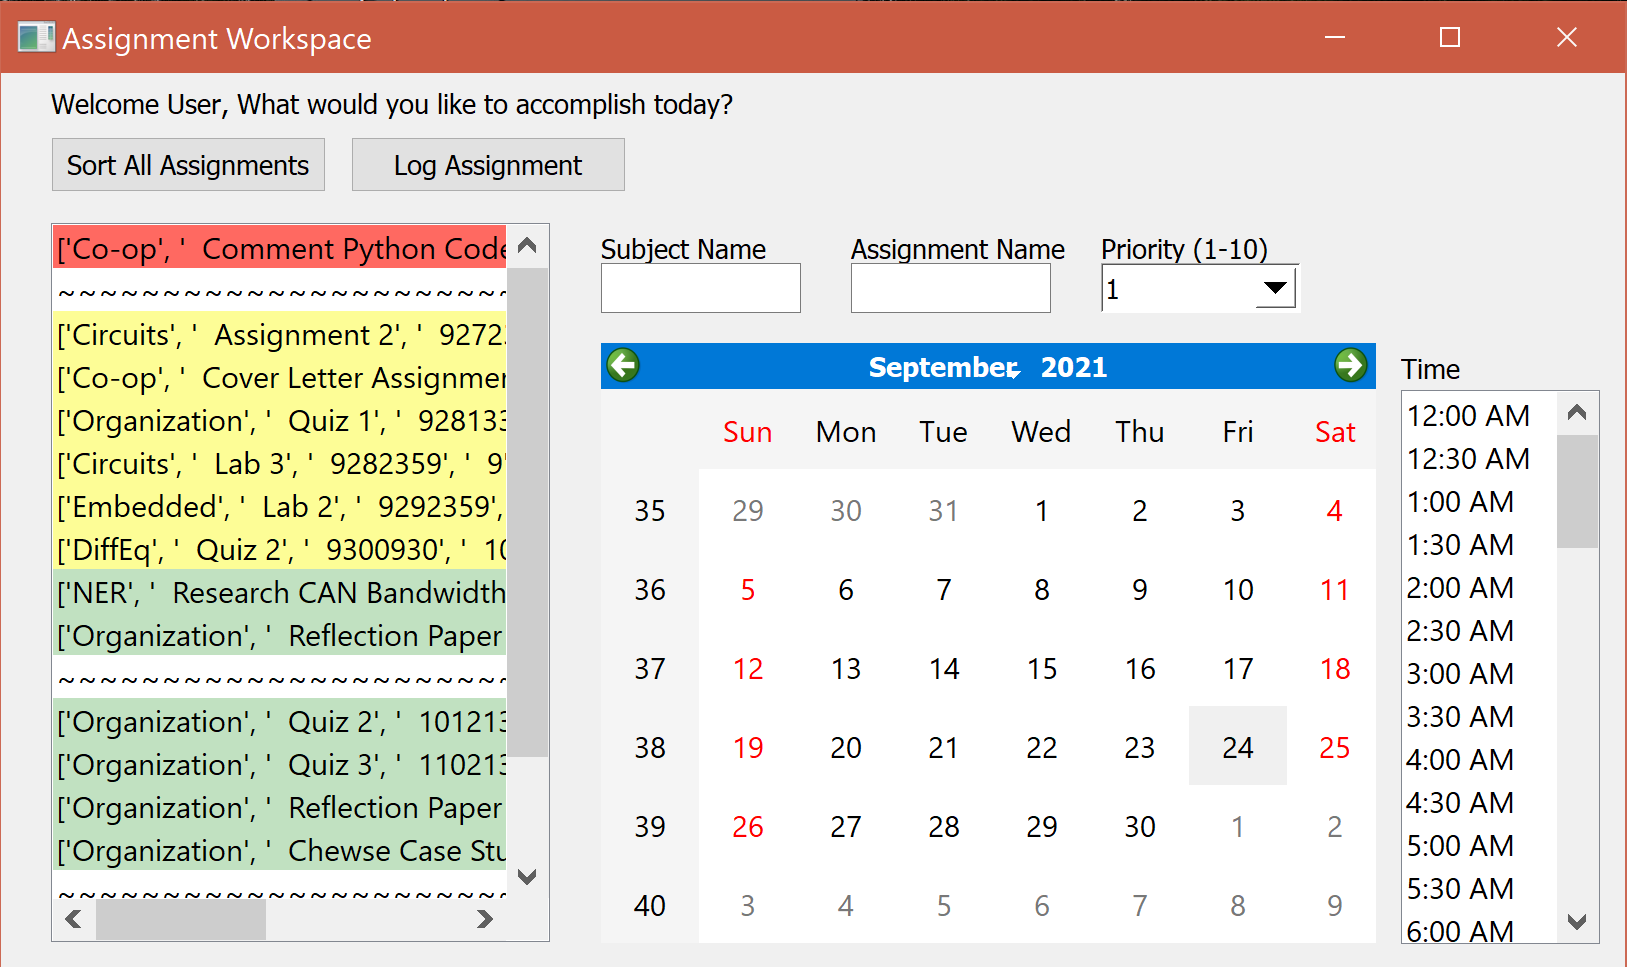
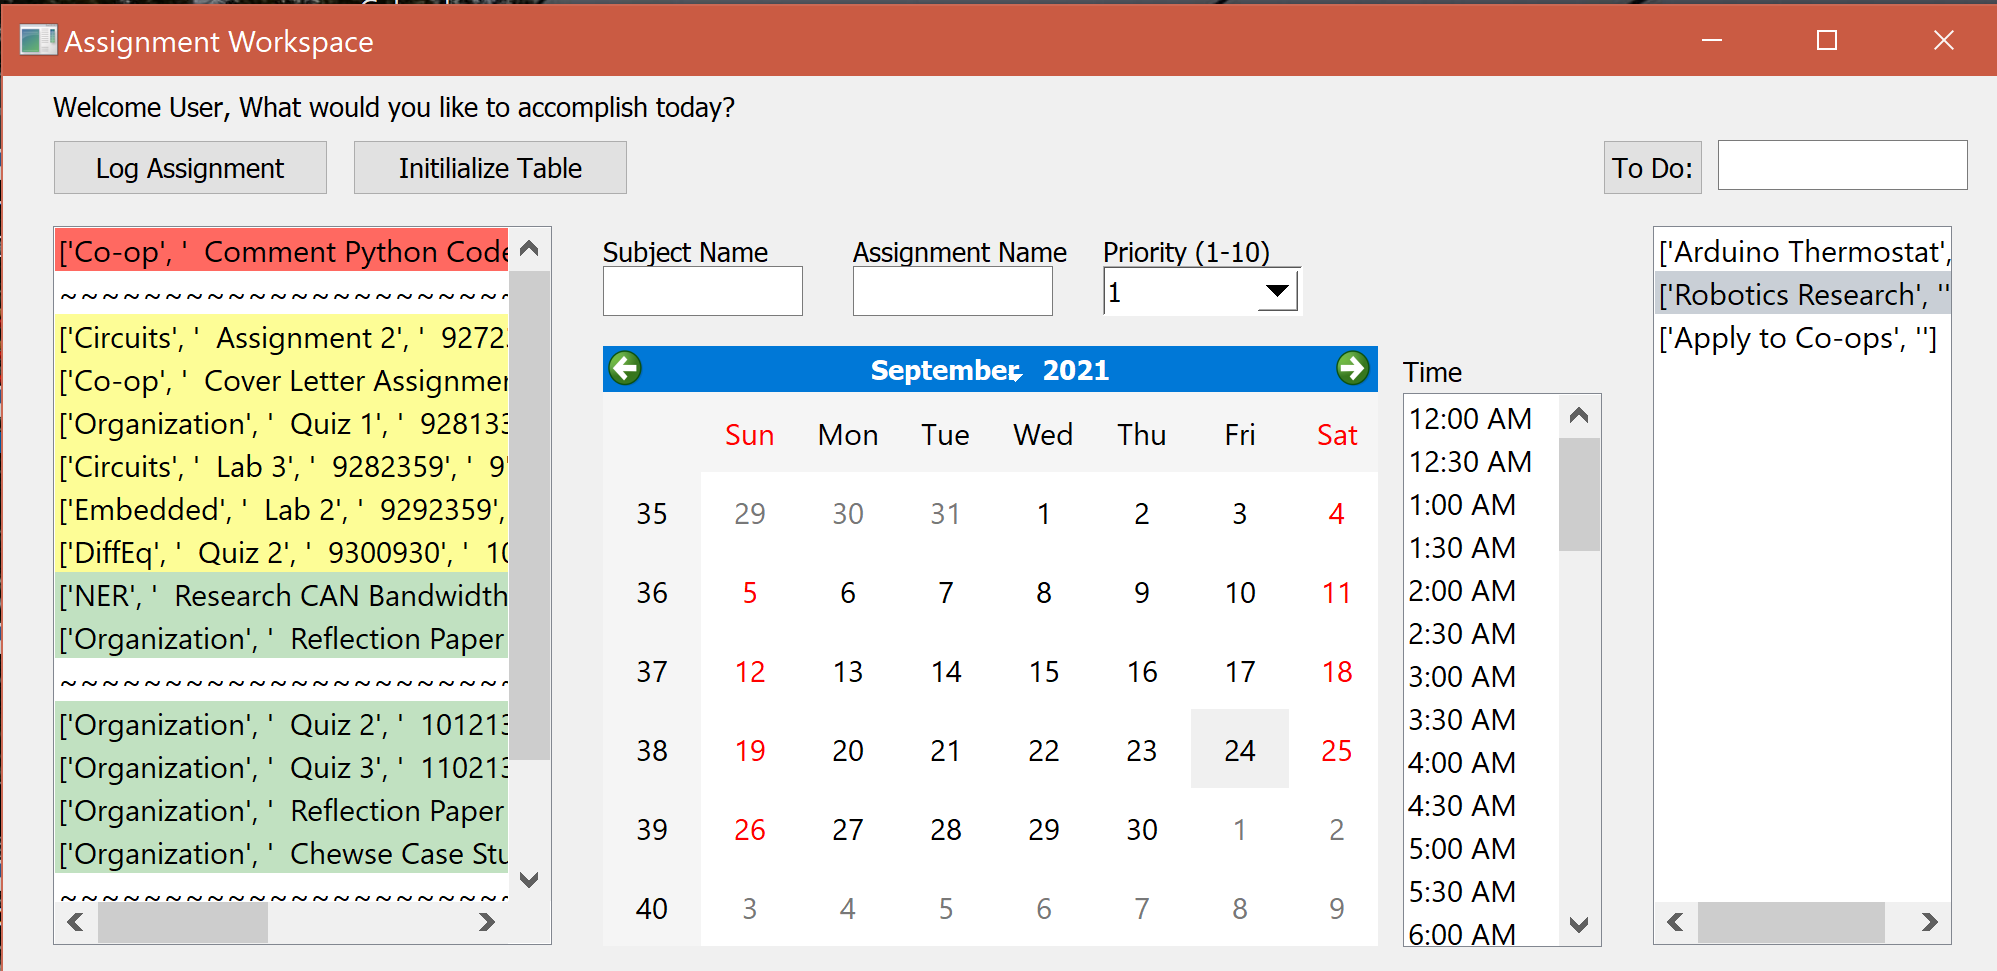
Added TODO functionality

diff --git a/DatabaseAssignmentGUI/homework_app.py b/DatabaseAssignmentGUI/homework_app.py
@@ -42,27 +42,32 @@ class mainWindow(QMainWindow):
     def __init__(self):
         super().__init__()
 
-        self.setGeometry(250,250,1625,900)
+        self.setGeometry(250,250,2000,900)
         self.setWindowTitle("Assignment Workspace")
         self.UiComponents()
         self.show()
 
     def UiComponents(self):
 
-        sortbutton = QPushButton(self)
-        sortbutton.setText("Sort All Assignments")
-        sortbutton.setGeometry(50,64,275,55)
-        sortbutton.clicked.connect(mainWindow.getassignments)
+        #sortbutton = QPushButton(self)
+        #sortbutton.setText("Sort All Assignments")
+        #sortbutton.setGeometry(50,64,275,55)
+        #sortbutton.clicked.connect(mainWindow.getassignments)
 
         logbutton = QPushButton(self)
         logbutton.setText("Log Assignment")
-        logbutton.setGeometry(350,64,275,55)
+        logbutton.setGeometry(50,64,275,55)
         logbutton.clicked.connect(mainWindow.logassignments)
 
         initbutton = QPushButton(self)
         initbutton.setText("Initilialize Table")
-        initbutton.setGeometry(650,64,275,55)
+        initbutton.setGeometry(350,64,275,55)
         initbutton.clicked.connect(mainWindow.init_table)
+
+        todobutton=QPushButton(self)
+        todobutton.setText("To Do:")
+        todobutton.setGeometry(1600,64,100,55)
+        todobutton.clicked.connect(mainWindow.logtodo)
 
         global calendar, due_date_date
         calendar=QCalendarWidget(self)
@@ -114,13 +119,27 @@ class mainWindow(QMainWindow):
         priorityinput.addItems(prioritylist)
         priorityinput.setStyleSheet("QComboBox { background-color: white; }")
         priorityinput.setGeometry(1100, 190, 200, 50)
+
+        global todoinput
+        todoinput=QLineEdit(self)
+        todoinput.setGeometry(1715, 64, 250, 50)
         
-        global listwidget
-        listwidget=QListWidget(self)
-        listwidget.setGeometry(50,150,500,720)
-        listwidget.doubleClicked.connect(mainWindow.removeassignments)
+        global assignmentlistwidget
+        assignmentlistwidget=QListWidget(self)
+        assignmentlistwidget.setGeometry(50,150,500,720)
+        assignmentlistwidget.doubleClicked.connect(mainWindow.removeassignments)
+
+        global todolistwidget
+        todolistwidget=QListWidget(self)
+        todolistwidget.setGeometry(1650, 150, 300, 720)
+        todolistwidget.doubleClicked.connect(mainWindow.removetodo)
 
         mainWindow.getassignments()
+        mainWindow.gettodos()
+        try:
+            quickstart.init()
+        except:
+            print("unable to access Google Calendar")
 
     def logassignments():
         print("logging assignment...")
@@ -131,7 +150,8 @@ class mainWindow(QMainWindow):
         due_date_date=due_date_object.month*1000000+due_date_object.day*10000
         try:
             due_date=int(due_date_date+due_date_time)
-            interface.send.push_assignments(subject, assignmentname, due_date, priority)
+            interface.assignmentdatabase.push_assignments(subject, assignmentname, due_date, priority)
+            quickstart.log_assignment(subject, assignmentname)
         except:
             print("error logging entry: part of due date was not given")
         finally:
@@ -140,13 +160,13 @@ class mainWindow(QMainWindow):
             importlib.reload(interface)
             mainWindow.getassignments()
             print("done logging!")
-    
+
     def getassignments():
         global assignmentlist
         print("processing assignments...")
-        listwidget.clear()
+        assignmentlistwidget.clear()
         importlib.reload(interface)
-        assignmentlist=interface.receive.callassignments()
+        assignmentlist=interface.assignmentdatabase.callassignments()
         process.process.string_to_int(assignmentlist)
         process.process.mergesort_list(assignmentlist)
         process.process.weeks_sorting(assignmentlist)
@@ -172,16 +192,16 @@ class mainWindow(QMainWindow):
                 assignment=QListWidgetItem('%s' % "~~~~~~~~~~~~~~~~~~~~~~~~~~~~~~~~~~~~")
 
             finally:
-                listwidget.addItem(assignment)
+                assignmentlistwidget.addItem(assignment)
             
         
         print("done getting!")
 
     def removeassignments():
         try:
-            assignment,subject=process.process.getsublist(assignmentlist[listwidget.currentRow()],3)
+            assignment,subject=process.process.getsublist(assignmentlist[assignmentlistwidget.currentRow()],3)
             print("deleting assignment...")
-            interface.send.delete_assignments(assignment,subject)
+            interface.assignmentdatabase.delete_assignments(assignment,subject)
             mainWindow.getassignments()
             print("done deleting!")
         except:
@@ -189,8 +209,8 @@ class mainWindow(QMainWindow):
 
     def init_table():
         print("initializing table...")
-        quickstart.main()
-        interface.initialize.initialize()
+        quickstart.init()
+        interface.assignmentdatabase.initialize()
         mainWindow.getassignments()
 
     def selecttime():
@@ -230,6 +250,42 @@ class mainWindow(QMainWindow):
         timelist.append("2359")
         timelist[0]="0000"
         timelist[1]="0030"
+
+    def logtodo():
+        print("logging assignment...")
+        name=todoinput.text()
+        try:
+            interface.tododatabase.push_todo(name)
+        except:
+            print("error logging entry: part of due date was not given")
+        finally:
+            todoinput.clear()
+            importlib.reload(interface)
+            mainWindow.gettodos()
+            print("done logging!")
+
+    def gettodos():
+        global todolist
+        print("processing todos...")
+        todolistwidget.clear()
+        importlib.reload(interface)
+        todolist=interface.tododatabase.calltodos()
+
+        for i in range (len(todolist)):
+            todo=QListWidgetItem('%s' % process.process.getsublist(todolist[i],0))
+            if i%2==1:
+                todo.setBackground(QColor('#C9CFD6'))
+            todolistwidget.addItem(todo)
+
+    def removetodo():
+        try:
+            name=process.process.getsublist(todolist[todolistwidget.currentRow()],0)
+            print("deleting assignment...")
+            interface.tododatabase.delete_todo(name[0])
+            mainWindow.gettodos()
+            print("done deleting!")
+        except:
+            print("unable to delete item!")
 
 ################################################################################################
 

diff --git a/DatabaseAssignmentGUI/database_interface.py b/DatabaseAssignmentGUI/database_interface.py
@@ -16,6 +16,8 @@ from process_assignments import *
 import safeguard as safeguard
 import time
 
+
+#Imports credentials from external safeguard.py
 mydb = mysql.connector.connect(
   host=process.getsublist(safeguard.host,2),
   user=process.getsublist(safeguard.user,2),
@@ -23,22 +25,32 @@ mydb = mysql.connector.connect(
   database=process.getsublist(safeguard.database,2)
 )
 
-class send:
+
+#Functions for interfacing with assignment database
+class assignmentdatabase:
+
+    #uploads new assignment to database with subject, name, due date, and priority
     def push_assignments(subject, name, due_date, priority):
         mycursor = mydb.cursor()
         sql = "INSERT INTO homework (subject, name, due_date, priority) VALUES (%s, %s, %s, %s)"
 
+        #If one of the values is empty, then the assignment is not logged, as it will interfere with manipulation later
         if subject=="" or name=="" or due_date=="" or priority=="":
           print("error logging entry: entry is empty")
           return
 
+        #executes upload
         val = (subject, name, due_date, priority)  
         mycursor.execute(sql, val)
         mydb.commit()
 
+
+    #deletes a specific assignment from the database with a specific name and subject (This prevents two assignments
+    # named the same thing, i.e. "Quiz 2" for two different subjects from being deleted)
     def delete_assignments(assignment,subject):
       mycursor=mydb.cursor()
 
+      #executes deletion
       sql = "DELETE FROM homework WHERE name = %s AND subject = %s"
       val=(assignment[2:],subject)
       print(val)
@@ -47,33 +59,100 @@ class send:
       mydb.commit()
       print(mycursor.rowcount, "record(s) deleted")
       
+    #fetches all assignments from database to be printed
+    def callassignments():
+      mycursor = mydb.cursor()
+
+      mycursor.execute("SELECT * FROM homework")
+
+      myresult = mycursor.fetchall()
+  
+      listlength=len(myresult)
+      #returns list with all assignments
+      return myresult
+
+    #intializes datatable, where it drops the table, then creates a new table with a subject, name, due date, and priority
+    def initialize():
+      mycursor = mydb.cursor()
+      #########################################################
+      mycursor.execute("DROP TABLE homework")
+      
+      time.sleep(0.1)
+
+      mycursor.execute("CREATE TABLE homework (subject VARCHAR(255), name VARCHAR(255), due_date VARCHAR(255), priority VARCHAR(255))")
+
+      mycursor.execute("SHOW TABLES")
+
+      #for x in mycursor:
+      #  print(x)
+
+      print("Finished with no errors")
+
+class tododatabase:
+
+    #uploads new todo to database
+    def push_todo(name):
+        mycursor = mydb.cursor()
+        sql = "INSERT INTO todo (name) VALUES (%s)"
+
+        #If one of the values is empty, then the assignment is not logged, as it will interfere with manipulation later
+        if name=="":
+          print("error logging entry: entry is empty")
+          return
+
+        #executes upload
+        val = (name)  
+        mycursor.execute(sql, (val,))
+        mydb.commit()
 
 
-class receive:
-  def callassignments():
-    mycursor = mydb.cursor()
+    #deletes a specific todo from the database with a specific name
+    def delete_todo(todo):
+      mycursor=mydb.cursor()
 
-    mycursor.execute("SELECT * FROM homework")
+      #executes deletion
+      sql = "DELETE FROM todo WHERE name = %s"
+      val=(todo)
+      mycursor.execute(sql,(val,))
 
-    myresult = mycursor.fetchall()
+      mydb.commit()
+      print(mycursor.rowcount, "record(s) deleted")
+      
+    #fetches all todos from database to be printed
+    def calltodos():
+      mycursor = mydb.cursor()
 
-    listlength=len(myresult)
+      mycursor.execute("SELECT * FROM todo")
 
-    return myresult
+      myresult = mycursor.fetchall()
+  
+      listlength=len(myresult)
+      #returns list with all assignments
+      return myresult
 
-class initialize:
-  def initialize():
-    mycursor = mydb.cursor()
-    #########################################################
-    mycursor.execute("DROP TABLE homework")
-    
-    time.sleep(0.1)
+    #intializes datatable, where it drops the table, then creates a new table with a name for each todo
+    def initialize():
+      mycursor = mydb.cursor()
+      #########################################################
+      try:
+        mycursor.execute("DROP TABLE todo")
+      except:
+        print("creating new table...")
+      
+      time.sleep(0.1)
 
-    mycursor.execute("CREATE TABLE homework (subject VARCHAR(255), name VARCHAR(255), due_date VARCHAR(255), priority VARCHAR(255))")
+      mycursor.execute("CREATE TABLE todo (name VARCHAR(255))")
 
-    mycursor.execute("SHOW TABLES")
+      mycursor.execute("SHOW TABLES")
 
-    for x in mycursor:
-      print(x)
+      for x in mycursor:
+        print(x)
 
-    print("Finished with no errors")
+      print("Finished with no errors")
+
+
+#assignmentdatabase.initialize()
+#tododatabase.initialize()
+#tododatabase.push_todo("Robotics Research")
+#print(tododatabase.calltodos())
+#tododatabase.delete_todo("Apply to Co-ops")
